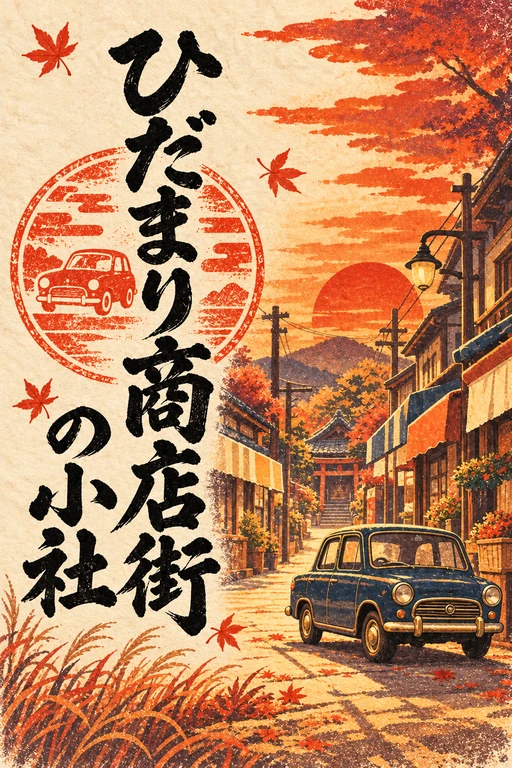
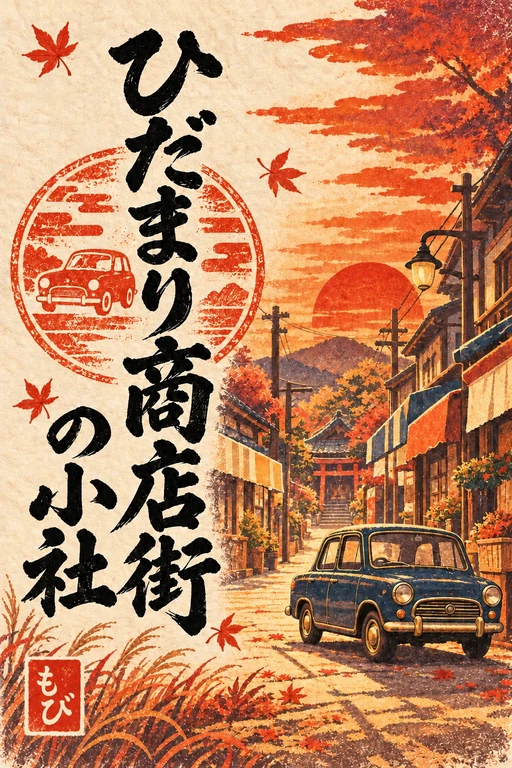
Update Toki showa-shoutengai goshuin with mobi seal

diff --git a/assets/event-toki/MANIFEST.md b/assets/event-toki/MANIFEST.md
@@ -143,3 +143,11 @@ Each side tag carries one black subject pictogram, no text. All eight are 1024×
 | keychains/keychain-heisei-century-v1-transparent.webp | 1024×1536 | 406292 | yes | previews/keychain-heisei-century.webp |
 
 E all-eight review: `previews/keychains-all.webp` (1104×868).
+
+## F generated goshuin inventory
+
+All eight include the shrine name, subject seal and lower-left もび seal. Showa five use strong yellow washi; Heisei three use brighter whiter washi. 1024×1536 opaque WebP quality 90. No cropping/nine-slice. Small stamp was generated toward reference bbox (51,1309)-(170,1468); a 10–20px variation remains on some images. Exact source-stamp compositing is awaiting explicit user choice.
+
+| File | Dimensions | Bytes | Alpha | Preview |
+|---|---|---:|---|---|
+| goshuin/showa-shoutengai.webp | 1024×1536 | 523298 | no | previews/goshuin-showa-shoutengai.webp |
